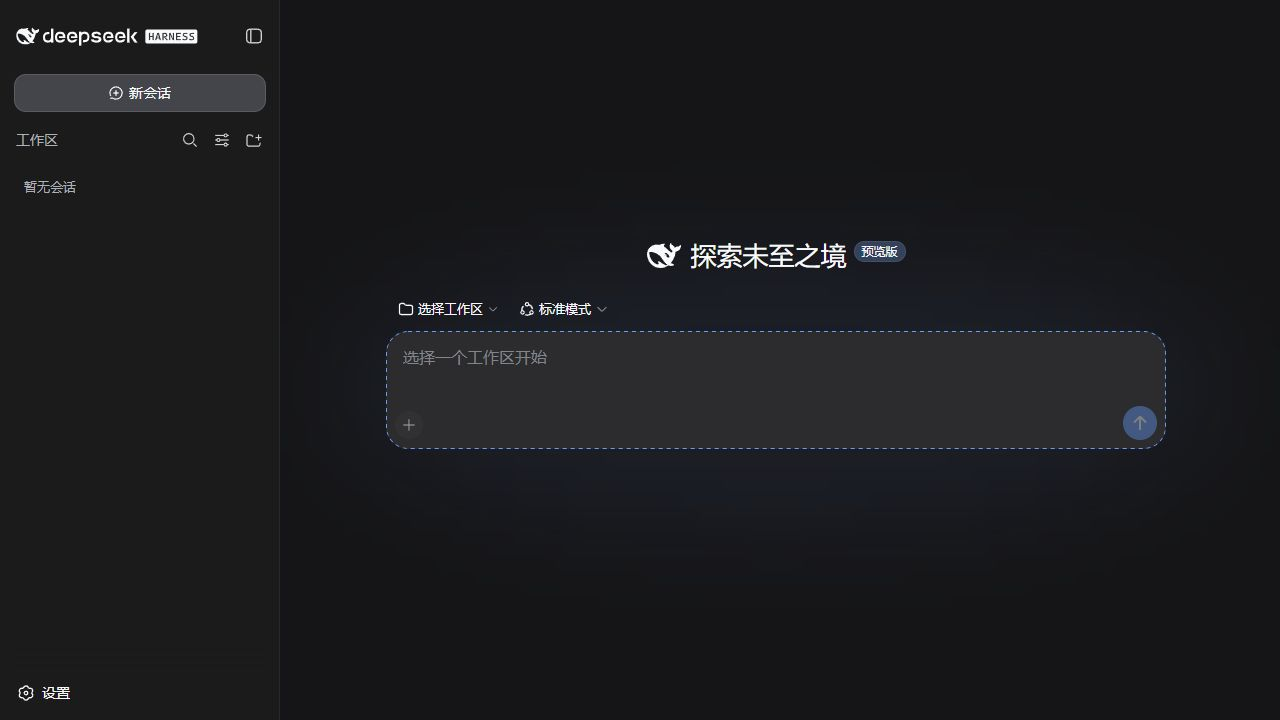
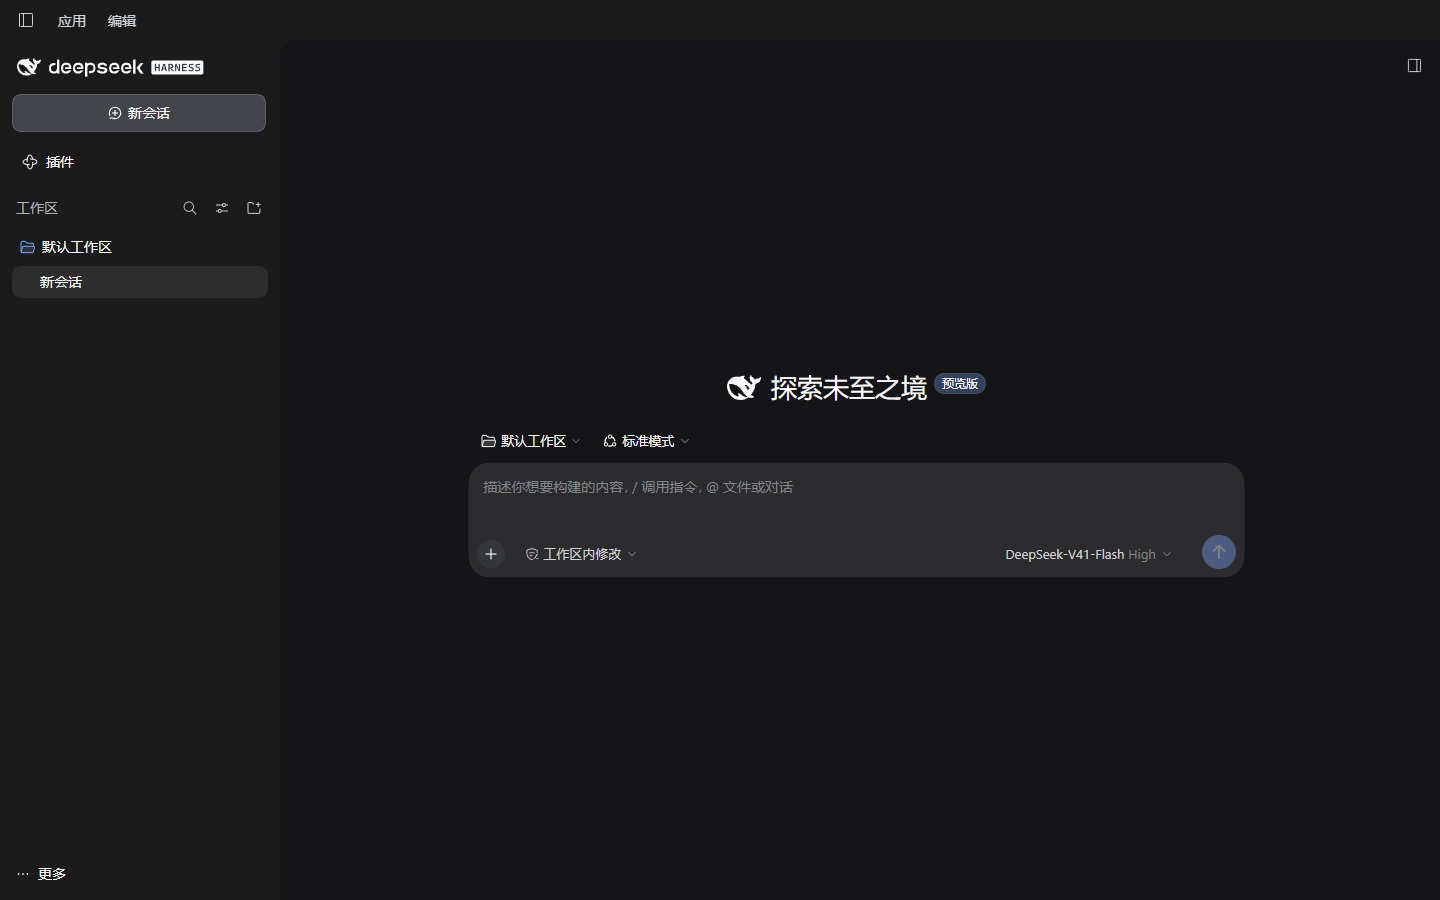
site: show the current Chinese workbench in both themes in the hero
Captured from a clean profile, off-screen, so no personal data is in the images.

diff --git a/site/index.html b/site/index.html
@@ -69,7 +69,7 @@
     <p class="hero-note" data-i18n="heroNote">不安装、不改 PATH　 /　 同平台整夹复制　 /　 保留数据的回滚与恢复</p>
   </div>
   <div class="product-stage" data-product-stage>
-    <figure class="fallback-window"><img data-product-shot src="assets/dsh-interface-zh.png" alt="DSH-Portable 中的 DeepSeek Harness 桌面工作台" width="1440" height="900"><img class="fallback-light" src="assets/dsh-workspace-0.6.4.png" alt="" aria-hidden="true" width="1440" height="900"></figure>
+    <figure class="fallback-window"><img data-product-shot src="assets/dsh-interface-zh.png" alt="DSH-Portable 中的 DeepSeek Harness 桌面工作台" width="1440" height="900"><img class="fallback-light" src="assets/dsh-interface-zh-light.png" alt="" aria-hidden="true" width="1440" height="900"></figure>
   </div>
   <div class="hero-caption"><span data-i18n="stageCaption">会话、设置、插件和工作区，留在一个文件夹。</span><span data-i18n="stageBoundary">独立社区项目 · 同平台迁移</span></div>
 </section>

diff --git a/site/scene.js b/site/scene.js
@@ -17,7 +17,7 @@ const loader = new THREE.TextureLoader();
 const screenshot =
   root.lang === "en" ? "dsh-interface-en.png" : "dsh-interface-zh.png";
 const [dark, bright, atmosphere] = await Promise.all(
-  [screenshot, "dsh-workspace-0.6.4.png", "hero-atmosphere.png"].map((file) =>
+  [screenshot, root.lang === "en" ? "dsh-workspace-0.6.4.png" : "dsh-interface-zh-light.png", "hero-atmosphere.png"].map((file) =>
     loader.loadAsync(new URL(`./assets/${file}`, import.meta.url).href),
   ),
 );
